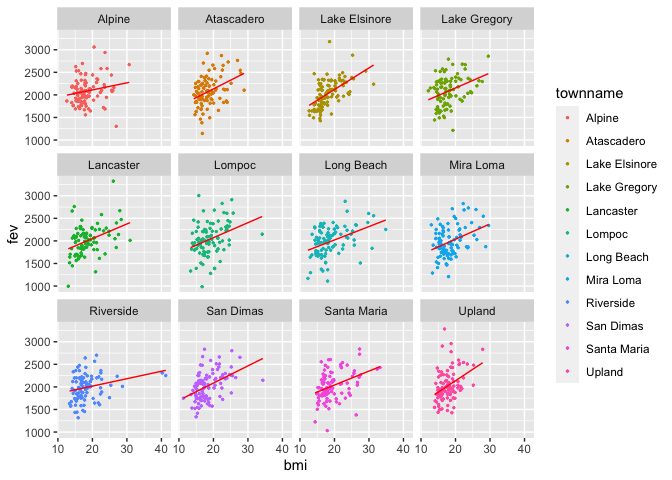
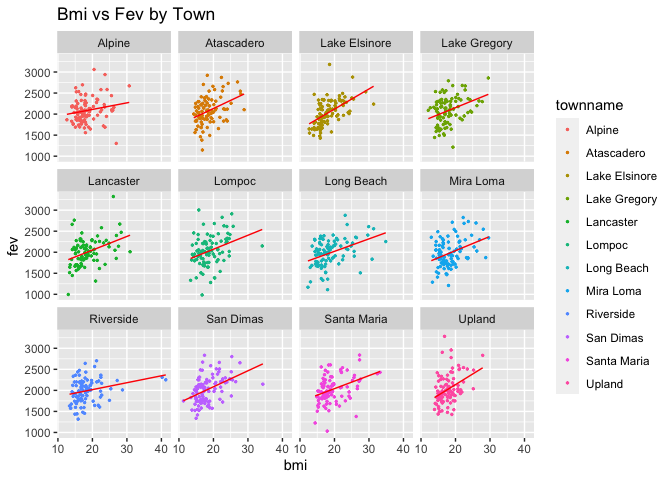
Homework 2 is done! https://github.com/USCbiostats/PM566/issues/60

diff --git a/02-assignment/README.md b/02-assignment/README.md
@@ -492,7 +492,7 @@ the range that the CDC provides for bmi measurements in children:
 ``` r
 ggplot(dat, aes(bmi, fev, color = townname)) + geom_jitter(size = 0.5) +
     geom_smooth(method = "lm", formula = y ~ x, size = 0.5, se = FALSE,
-        color = "red") + facet_wrap(~townname, nrow = 3)
+        color = "red") + facet_wrap(~townname, nrow = 3) + labs(title = "Bmi vs Fev by Town")
 ```
 
 ![](README_files/figure-gfm/facet%20plot%20of%20bmi%20vs%20fev-1.png)<!-- -->  
@@ -509,7 +509,8 @@ slightly by region.
 ``` r
 ggplot(data = dat, mapping = aes(x = fev)) + geom_histogram(mapping = aes(fill = factor(obesity_level)),
     bins = 70, alpha = 0.8) + scale_fill_manual(values = c("darkseagreen2",
-    "dodgerblue", "firebrick2", "gold1")) + guides(fill = guide_legend(title = "Obesity Category"))
+    "dodgerblue", "firebrick2", "gold1")) + guides(fill = guide_legend(title = "Obesity Category")) +
+    labs(title = "Fev by Bmi Category")
 ```
 
 ![](README_files/figure-gfm/histograms%20of%20fev%20by%20bmi-1.png)<!-- -->  
@@ -525,7 +526,8 @@ people in the normal category.
 ``` r
 ggplot(data = dat, mapping = aes(x = fev)) + geom_histogram(mapping = aes(fill = factor(smoke_gas_exposure)),
     bins = 70, alpha = 0.8) + scale_fill_manual(values = c("dodgerblue4",
-    "lightpink", "cadetblue1", "yellow1")) + guides(fill = guide_legend(title = "Obesity Category"))
+    "lightpink", "cadetblue1", "yellow1")) + guides(fill = guide_legend(title = "Obesity Category")) +
+    labs(title = "Fev by Smoke and Gas Exposure Category ")
 ```
 
 ![](README_files/figure-gfm/histogram%20of%20fev%20by%20smoke/gas-1.png)<!-- -->  
@@ -539,7 +541,8 @@ around 2050, with a standard deviation of about 300.
 ``` r
 ggplot(data = dat, mapping = aes(x = obesity_level, fill = factor(smoke_gas_exposure))) +
     geom_bar(position = "dodge") + scale_fill_manual(values = c("dodgerblue4",
-    "lightpink", "cadetblue1", "darkorange1")) + labs(fill = "Smoke and Gas Exposure")
+    "lightpink", "cadetblue1", "darkorange1")) + labs(fill = "Smoke and Gas Exposure",
+    title = "Bmi by Smoke and Gas Exposure Category")
 ```
 
 ![](README_files/figure-gfm/bmi%20vs%20smoke/gas%20barchart-1.png)<!-- -->  
@@ -557,7 +560,8 @@ people exposed to gas only.
 ``` r
 ggplot(data = dat, mapping = aes(x = forcats::fct_reorder(factor(obesity_level),
     fev, median), y = fev, color = obesity_level)) + stat_summary(fun.min = min,
-    fun.max = max, fun = median) + xlab("Obesity Category")
+    fun.max = max, fun = median) + xlab("Obesity Category") +
+    labs(title = "Stat Summary of Fev by Bmi Category")
 ```
 
 ![](README_files/figure-gfm/plot%20stat%20summary%20of%20fev%20by%20obesity%20category-1.png)<!-- -->  
@@ -572,7 +576,7 @@ overweight categories.
 ``` r
 ggplot(data = dat, mapping = aes(y = fev, x = smoke_gas_exposure,
     color = smoke_gas_exposure)) + stat_summary(fun.min = min,
-    fun.max = max, fun = median)
+    fun.max = max, fun = median) + labs(title = "Stat Summary of Fev by Smoke and Gas Exposure Category")
 ```
 
 ![](README_files/figure-gfm/plot%20stat%20summary%20of%20fev%20by%20smoke/gas%20exposure-1.png)<!-- -->  
@@ -614,10 +618,10 @@ closer to the coastline are low concentration levels of pm 2.5 of below
 ggplot(data = dat, mapping = aes(y = fev, x = pm25_mass, group = factor(pm25_mass))) +
     geom_boxplot(width = 0.5) + geom_smooth(mapping = aes(group = 1),
     col = "red", formula = y ~ x, method = "lm", alpha = 0.01,
-    linetype = "twodash")
+    linetype = "twodash") + labs(title = "Fev vs Concentration of PM 2.5 Mass")
 ```
 
 ![](README_files/figure-gfm/pm25%20mass%20and%20fev%20association%20grouped%20boxplots-1.png)<!-- -->  
-The above boxplots show that there is a small negative correlation
+The above boxplots show that there is a very small negative correlation
 between forced expiratory volume and concentration of pm 2.5 mass, with
 a slight decrease in fev with increasing concentration of pm 2.5 mass.
